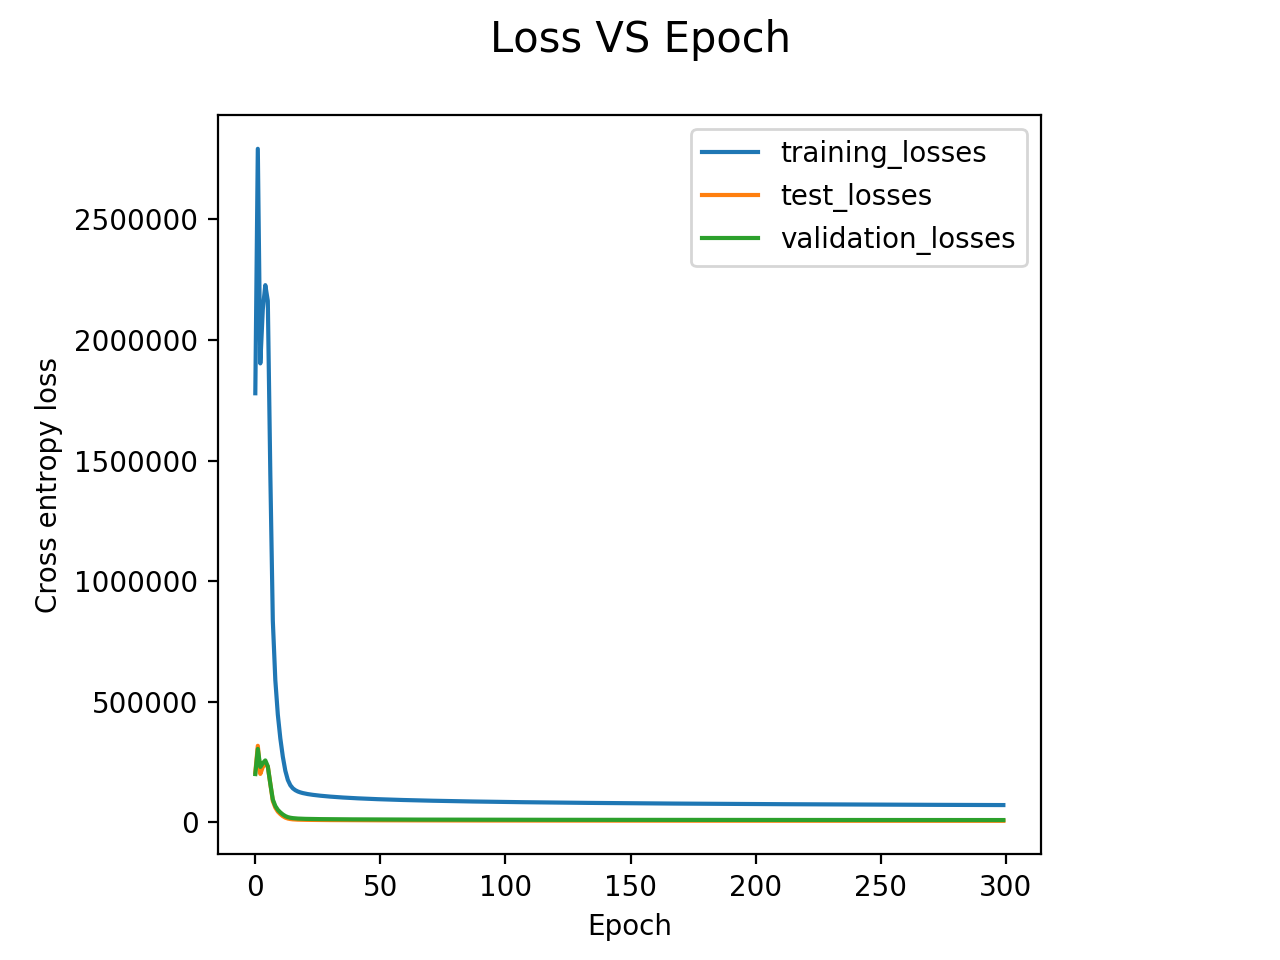
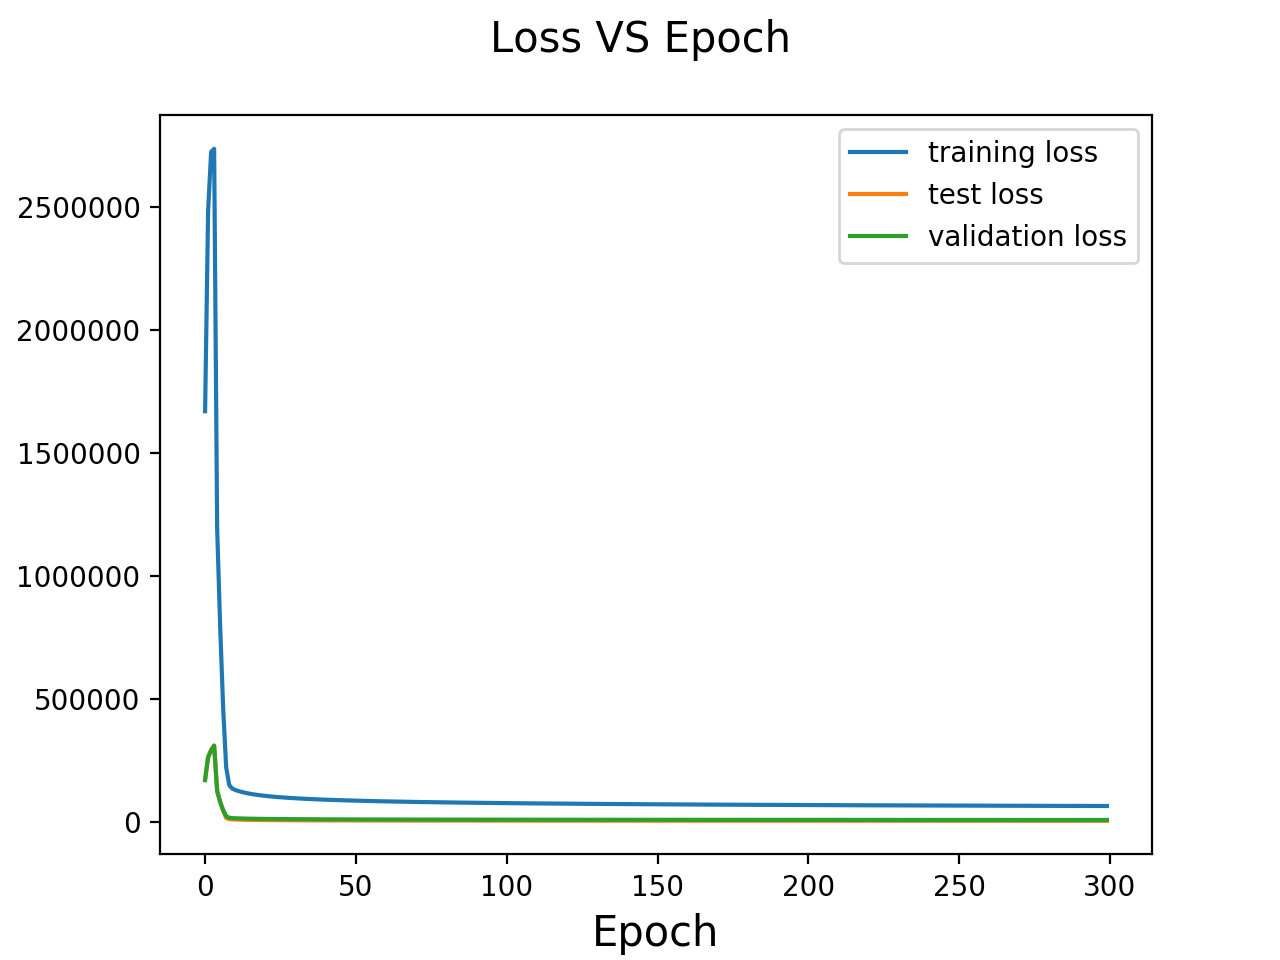
some changes

diff --git a/softmax/softmax.py b/softmax/softmax.py
@@ -8,7 +8,6 @@ import sys
 sys.path.append('../python-mnist/')
 from mnist import MNIST
 
-
 def find_best_parameters(training_images, one_hot_training_labels, test_images, test_labels, validation_images, validation_labels, regularization_types, lambds, weights, inital_step_size, T, epoch, classes, dimensions):
 
     best_validation_weights_L2 = np.random.randn(dimensions, classes).astype(np.float32) 
@@ -131,7 +130,6 @@ def plot_graph(training_images, test_images, validation_images, training_labels,
         pred_y = np.exp(a - a_max) / (sum_exp_a+0.0) 
         delta = one_hot_training_labels - pred_y 
         grads = -np.dot(training_images.T, delta) + lambd*weights
-
         weights = weights - (inital_step_size/(1+i/T)) * grads
 
         # Calculate training loss and accuracy
@@ -144,7 +142,7 @@ def plot_graph(training_images, test_images, validation_images, training_labels,
         training_accuracy_.append(training_accuracy)
         pred_y[pred_y == 0.0] = 1e-15
         log_pred_y = np.log(pred_y)
-        training_loss = -np.sum(one_hot_training_labels * log_pred_y)  +  lambd*LA.norm(weights)
+        training_loss = -np.sum(one_hot_training_labels * log_pred_y)  + lambd*LA.norm(weights)
         training_losses.append(training_loss)
         
         # Calculate test loss and accuracy
@@ -154,6 +152,7 @@ def plot_graph(training_images, test_images, validation_images, training_labels,
         pred_y = np.exp(a - a_max) / (sum_exp_a+0.0) # 18000, 10
         pred_class = np.argmax(pred_y, axis=1)
         test_accuracy = np.sum(pred_class == test_labels)/(pred_class.shape[0]+0.0)
+        print test_accuracy
         test_accuracy_.append(test_accuracy)
         pred_y[pred_y == 0.0] = 1e-15
         log_pred_y = np.log(pred_y)
@@ -179,9 +178,9 @@ def plot_graph(training_images, test_images, validation_images, training_labels,
     plt.plot(test_losses)
     plt.plot(validation_losses)
     fig1.suptitle('Loss VS Epoch', fontsize=15)
-    plt.legend(['training_losses', 'test_losses', 'validation_losses'], loc='upper right')
-    plt.xlabel('Epoch', fontsize=10)
-    plt.ylabel('Cross entropy loss', fontsize=10)
+    plt.legend(['training loss', 'test loss', 'validation loss'], loc='upper right')
+    plt.xlabel('Epoch', fontsize=15)
+    plt.ylabel('Total loss', fontsize=15)
     fig1.show()
 
     fig2 = plt.figure(2)
@@ -190,17 +189,16 @@ def plot_graph(training_images, test_images, validation_images, training_labels,
     plt.plot(validation_accuracy_)
     fig2.suptitle('Accuracy VS Epoch', fontsize=15)
     plt.legend(['training accuracy', 'test accuracy', 'validation accuracy'], loc='lower right')
-    plt.xlabel('Epoch', fontsize=10)
-    plt.ylabel('Accuracy', fontsize=10)
+    plt.xlabel('Epoch', fontsize=15)
+    plt.ylabel('Accuracy', fontsize=15)
     fig2.show()
 
     # Visualize weights and digits
     weights = weights[1:,:]
     training_images = training_images[:,1:]
 
-    fig3 = plt.figure(figsize = (6,6))
-    fig3.suptitle('Images of Weights and Average Examples', fontsize=15)
-    gs = gridspec.GridSpec(classes, 2)
+    fig3 = plt.figure(figsize = (6,2))
+    gs = gridspec.GridSpec(2, classes)
     gs.update(wspace=0, hspace=0)
 
     for index in range(weights.shape[1]):
@@ -210,10 +208,10 @@ def plot_graph(training_images, test_images, validation_images, training_labels,
             if training_labels[instance] == index:
                 ave_image += training_images[instance].reshape(1,784)
 
-        ax1 = plt.subplot(gs[index,0])
+        ax1 = plt.subplot(gs[0,index])
         plt.imshow(np.reshape(weight, (28,28)), cmap=plt.cm.gray, aspect='equal')
         plt.axis('off')
-        ax2 = plt.subplot(gs[index,1])
+        ax2 = plt.subplot(gs[1,index])
         plt.imshow(np.reshape(ave_image, (28,28)), cmap=plt.cm.gray, aspect='equal')
         plt.axis('off')
     plt.show()
@@ -245,7 +243,7 @@ if __name__ == '__main__':
     lambds_set_1 = [0.01, 0.001, 0.0001]
     lambds_set_2 = [0.05, 0.005, 0.0005]
     lambd = 0.0005
-    regularization_types = ["L2"]
+    regularization_types = ["L1", "L2"]
 
     classes = 10
     dimensions = 785
@@ -255,7 +253,6 @@ if __name__ == '__main__':
     one_hot_training_labels = np.eye(classes)[training_labels] 
     one_hot_validation_labels = np.eye(classes)[validation_labels]
     one_hot_test_labels = np.eye(classes)[test_labels]  
-
 
     #find_best_parameters(training_images, one_hot_training_labels, test_images, test_labels, validation_images, validation_labels, regularization_types, lambds_set_2, weights, inital_step_size, T, epoch, classes, dimensions)
     plot_graph(training_images, test_images, validation_images, training_labels, test_labels, validation_labels, one_hot_training_labels, one_hot_test_labels, one_hot_validation_labels, lambd, epoch, inital_step_size, T, weights)
